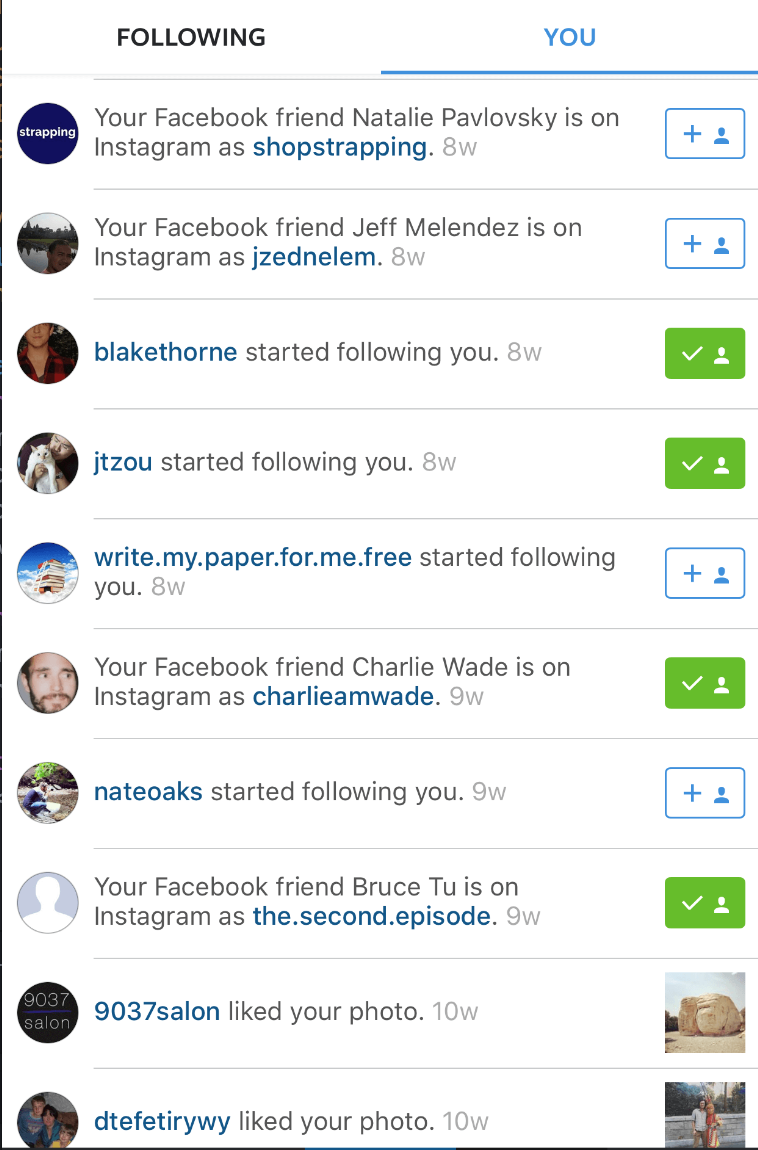
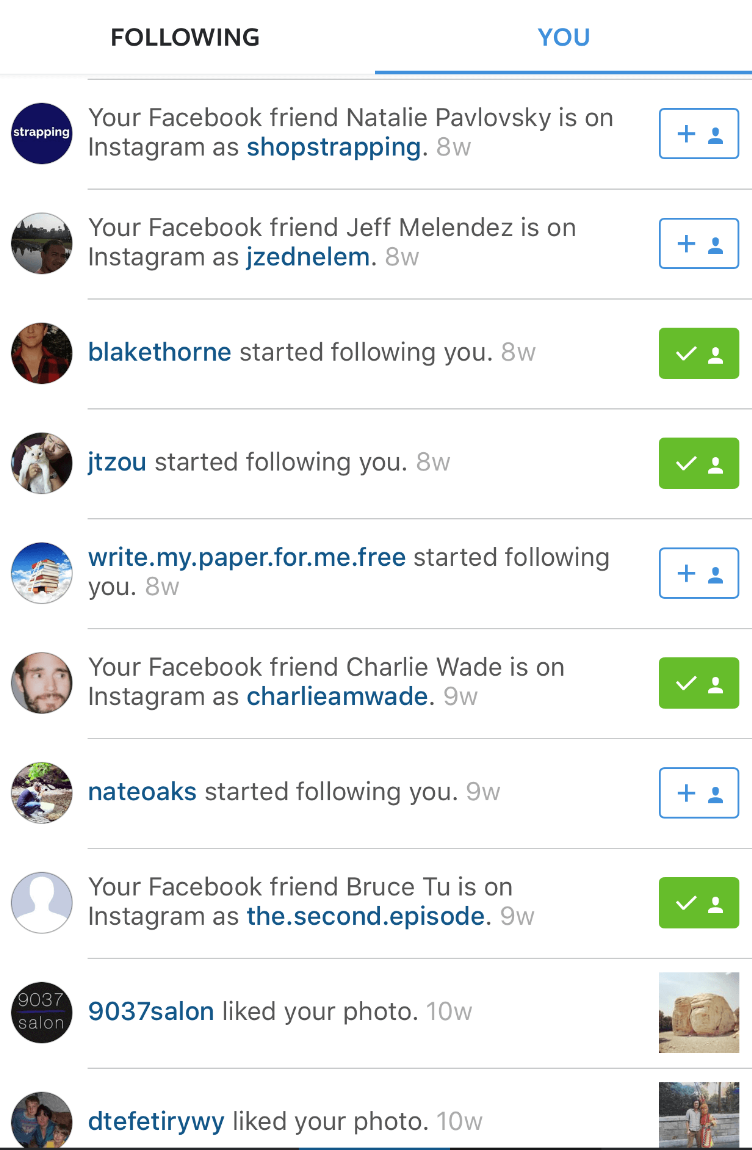
Centering and width

diff --git a/client/main.less b/client/main.less
@@ -6,6 +6,12 @@
 // Height variables (appears count calculates by raw css)
 @height0: 11.5vh; // Appears 2 times
 
+.Absolute-Center {
+  margin: auto;
+  position: absolute;
+  top: 0; left: 0; bottom: 0; right: 0;
+}
+
 body {
 	background-color: #e9ebee;
 	margin: 0;
@@ -17,6 +23,7 @@ a.brand:hover, a.circle:hover, .react-tabs ul li:hover, .social-media-bar a:hove
 	transition: all .2s ease-in;
 }
 .container {
+	.Absolute-Center();
 	-moz-box-shadow: 10px 9px 9px 0px rgba(198,198,198,1);
 	-webkit-box-shadow: 10px 9px 9px 0px rgba(198,198,198,1);
 	-webkit-flex-direction: column;
@@ -30,7 +37,7 @@ a.brand:hover, a.circle:hover, .react-tabs ul li:hover, .social-media-bar a:hove
 	flex-direction: column;
 	flex: 1 100%;
 	min-height: 95vh;
-	width: 53vh;
+	width: 57vh;
 }
 .title {
 	background-color: #656565;
